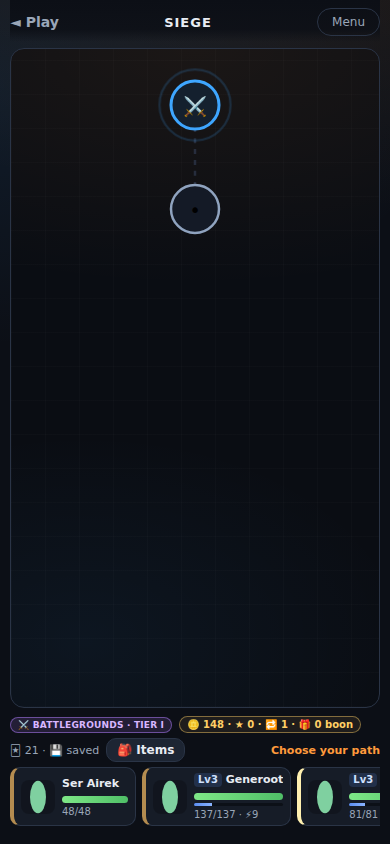
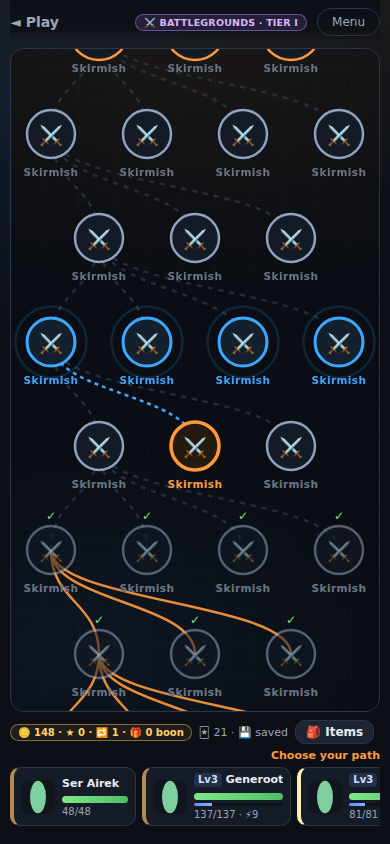
Move the expedition badge to the top bar and re-fit the map on rotation
The mode badge belongs with the run's identity, not its resources: it moves
into the top bar (map screen only), which leaves gold, deck count and Items
on one HUD line with the hint below.

Rotating stranded the map view. The flip handler only re-rendered when the
landscape axis actually changed, so a rotation on the same axis kept the old
scroll offset against new extents — dead space below the map, its top out of
reach — and a map shorter than its scroll box sat pinned to the top edge.
renderMap now keeps its focus scroll as a closure the handler can re-run, and
the scroll box centres a small map with auto margins.

Cache pins: adventure.css 63 -> 64, adventure.js 66 -> 67.

Claude-Session: https://claude.ai/code/session_011mQxEdrqqBDpVrAozhPkrc

diff --git a/src/main/resources/static/css/adventure.css b/src/main/resources/static/css/adventure.css
@@ -59,6 +59,11 @@ button{font-family:inherit;}
 .siege-back:hover{color:var(--text);}
 .siege-title{font-weight:800; letter-spacing:2px; font-size:18px;}
 .siege-title span{display:block; font-size:11px; letter-spacing:1px; color:var(--faint); font-weight:600;}
+/* The run's mode badge rides in the top bar, and only while the map is up —
+   every other screen either has no run yet or names itself in its own header.
+   Placed between the title and the Menu button so it never displaces either. */
+.siege-topbar #mapMode{margin-left:auto; margin-right:10px;}
+body:not([data-screen="mapScreen"]) .siege-topbar #mapMode{display:none;}
 .siege-abandon{background:transparent; border:1px solid var(--border); color:var(--dim); border-radius:20px; padding:6px 14px; cursor:pointer; font-size:12px;}
 .siege-abandon:hover{color:var(--bad); border-color:var(--bad);}
 
@@ -843,6 +848,7 @@ body[data-screen="rewardScreen"] .siege-screen{
 .map-bottom .map-meta{margin-bottom:0;}
 .map-scroll{
   position:relative; overflow:auto; flex:1 1 auto; min-height:280px;
+  display:flex;
   border:1px solid var(--border); border-radius:14px;
   background:
     radial-gradient(700px 340px at 50% 0%, rgba(255,154,60,.07), transparent 70%),
@@ -852,7 +858,11 @@ body[data-screen="rewardScreen"] .siege-screen{
     #0a0d13;
   -webkit-overflow-scrolling:touch;
 }
-#mapSvg{display:block; margin:0 auto;}
+/* Flex + auto margins centre the map on both axes when it is smaller than the
+   scroll box (rotating to a taller viewport used to leave it stuck at the top
+   with dead space below), while auto margins — unlike align-items:center —
+   never make the overflowing start edge unreachable. */
+#mapSvg{display:block; flex:0 0 auto; margin:auto;}
 .map-edge{fill:none; stroke:#2c3547; stroke-width:2.5; stroke-dasharray:5 6; opacity:.8;}
 .map-edge.walked{stroke:var(--accent); stroke-dasharray:none; opacity:.9;}
 .map-edge.open{stroke:var(--accent-2); stroke-dasharray:4 4; opacity:1; animation:edgeflow 1.2s linear infinite;}
@@ -2257,7 +2267,6 @@ body.siege-drag-active .sprite.drop-hover .sp-art{ filter:drop-shadow(0 0 18px r
      and clipping a lane node would make it unreachable; tuned lane spacing
      keeps the common 3-4 lane maps scroll-free. */
   .map-scroll{ min-height:0; overflow-x:auto; overflow-y:auto; }
-  #mapSvg{ margin:auto 0; }
   .map-bottom{ padding:4px 0 6px; }
   .map-reward{ margin-bottom:2px; font-size:11px; }
   .map-meta{ gap:8px; font-size:11px; margin-bottom:0; flex-wrap:wrap; }
@@ -2390,15 +2399,17 @@ body.siege-drag-active .sprite.drop-hover .sp-art{ filter:drop-shadow(0 0 18px r
      button off the right edge with no way to reach it. It wraps now, and the
      hint takes its own line so the buttons keep a full row to themselves. */
   .map-meta{flex-wrap:wrap; gap:5px 7px; font-size:11px;}
-  /* Wrapping alone was not enough: the mode badge and the gold chip are ~212px
-     and ~221px at their full size, so each claimed a line of its own and the
-     HUD grew four rows deep. Shrunk, they pair on one line and everything else
-     — deck/save count, Items, Extract, hint — lands on the next. */
-  .map-meta .run-slot-badge{
-    font-size:9px; padding:2px 7px; letter-spacing:.2px; max-width:52%;
-    overflow:hidden; text-overflow:ellipsis;
-  }
+  /* Wrapping alone was not enough: these chips run 90-220px at full size, so
+     each claimed a line of its own. Shrunk, gold pairs with the deck/save count
+     and the buttons and hint land on the next line. */
   .map-meta .gold-chip{font-size:10px; padding:2px 7px;}
+  /* The top bar carries the mode badge on this screen; a phone has no room for
+     it beside the two-line title, and the badge already names the run. */
+  body[data-screen="mapScreen"] .siege-title{display:none;}
+  .siege-topbar #mapMode{
+    font-size:9.5px; padding:2px 8px; letter-spacing:.2px;
+    max-width:60vw; overflow:hidden; text-overflow:ellipsis; margin-left:auto;
+  }
   /* Let the deck/save chip wrap as a unit — broken over two lines it doubled
      the row height for one line of text. */
   .map-meta #mapDeckCount{white-space:nowrap;}

diff --git a/src/main/resources/static/js/adventure.js b/src/main/resources/static/js/adventure.js
@@ -375,8 +375,11 @@
     if (mapOrientTimer) clearTimeout(mapOrientTimer);
     mapOrientTimer = setTimeout(function () {
       if (document.body.dataset.screen !== 'mapScreen') return;
-      if (isPhoneLandscape() === mapLayoutLand) return; // axis unchanged — nothing to redo
-      renderMap();
+      if (isPhoneLandscape() !== mapLayoutLand) { renderMap(); return; }
+      // Same axis, new viewport: the geometry still holds but the scroll extents
+      // do not, so re-centre on the current node instead of leaving the player
+      // parked past the end of the map.
+      if (mapFocusScroll) mapFocusScroll();
     }, 150);
   }
 
@@ -1612,6 +1615,9 @@
   // Remembers the axis the last renderMap() drew, so a rotation can detect the
   // flip and re-render (SVG geometry is baked at render time, not responsive).
   var mapLayoutLand = null;
+  // Re-scrolls the map to the run's current node using the geometry the last
+  // renderMap() baked. Set by renderMap; a no-op before the first map render.
+  var mapFocusScroll = null;
 
   function renderMap() {
     showScreen('mapScreen');
@@ -1752,18 +1758,24 @@
     });
 
     // Keep the action in view: scroll to the current position (or the start).
-    var scroll = $('mapScroll');
+    // Remembered as a closure rather than run once, because a rotation that does
+    // not flip the axis still changes the scroll extents — leaving the old
+    // offset stranded (blank space below the map, the top out of reach).
     var focus = nodes.find(function (n) { return n.current; });
-    setTimeout(function () {
-      if (land) {
+    var focusPt = focus ? pos(focus) : null;
+    mapFocusScroll = function () {
+      var scroll = $('mapScroll');
+      if (!scroll) return;
+      if (mapLayoutLand) {
         // Horizontal scroll: lead ~60% into the viewport; no current node → far left (start).
-        var focusX = focus ? pos(focus).x : 0;
-        scroll.scrollLeft = Math.max(0, focusX - scroll.clientWidth * 0.6);
+        scroll.scrollLeft = Math.max(0, (focusPt ? focusPt.x : 0) - scroll.clientWidth * 0.6);
+        scroll.scrollTop = 0;
       } else {
-        var focusY = focus ? pos(focus).y : height;
-        scroll.scrollTop = Math.max(0, focusY - scroll.clientHeight * 0.6);
+        scroll.scrollTop = Math.max(0, (focusPt ? focusPt.y : height) - scroll.clientHeight * 0.6);
+        scroll.scrollLeft = Math.max(0, (width - scroll.clientWidth) / 2);
       }
-    }, 30);
+    };
+    setTimeout(mapFocusScroll, 30);
 
     // Preload the next fight's map composition (orientation currently in effect)
     // so entering battle doesn't flash the fallback gradient.

diff --git a/src/main/resources/static/adventure.html b/src/main/resources/static/adventure.html
@@ -5,7 +5,7 @@
 <meta name="viewport" content="width=device-width, initial-scale=1, viewport-fit=cover">
 <title>Siege — Siegelings Adventure</title>
 <link rel="icon" href="/favicon.png">
-<link rel="stylesheet" href="/css/adventure.css?v=63">
+<link rel="stylesheet" href="/css/adventure.css?v=64">
 </head>
 <body>
 <!-- Enemy Siegelings are corrupted card art, so they need the same die-cut shade
@@ -51,6 +51,12 @@
   <header class="siege-topbar">
     <a class="siege-back" href="/play" title="Back to Play">◄ Play</a>
     <div class="siege-title">SIEGE <span>Adventure Expedition</span></div>
+    <!-- Which expedition this is belongs with the run's identity, not with its
+         resources: it lives in the top bar (shown on the map screen only) so the
+         HUD row below the map is left for gold, deck, Items and the hint.
+         renderMap() rewrites this element's className, so CSS targets it by
+         position and id, never by an extra class. -->
+    <span class="run-slot-badge siege" id="mapMode">🏳 Siege Expedition</span>
     <button class="siege-abandon hidden" id="runMenuBtn" type="button" aria-haspopup="dialog" aria-controls="runMenu" aria-expanded="false">Menu</button>
   </header>
 
@@ -149,9 +155,9 @@
     <div class="map-bottom">
       <div class="map-reward" id="mapReward"></div>
       <div class="map-meta">
-        <!-- Mode badge first, then the same chips in the same order in both modes:
-             the HUD reads identically for Siege and Battlegrounds. -->
-        <span class="run-slot-badge siege" id="mapMode">🏳 Siege Expedition</span>
+        <!-- Same chips in the same order in both modes so the HUD reads
+             identically for Siege and Battlegrounds; the mode badge itself sits
+             in the top bar. -->
         <span class="gold-chip" id="mapGold">🪙 0</span>
         <span id="mapDeckCount"></span>
         <button class="siege-btn map-inv-btn" id="inventoryBtn" type="button">🎒 Items</button>
@@ -614,6 +620,6 @@
   <div class="siege-toast hidden" id="siegeToast"></div>
 </div>
 <script src="/js/siege-maps.js?v=3"></script>
-<script src="/js/adventure.js?v=66"></script>
+<script src="/js/adventure.js?v=67"></script>
 </body>
 </html>

diff --git a/progress.md b/progress.md
@@ -1,3 +1,8 @@
+Original prompt: Yeah the expedition type can be displayed at the top instead of the bottom / When rotating the map portrait and landscape it sometimes adjust the view and leaves blank space on the bottom and you can't see the top it's also messy fix that
+
+- August 17, 2026 Two follow-ups on the Siege map HUD. (1) The expedition-type badge moved out of the resource row and into the top bar: `#mapMode` is now a sibling of `.siege-title` in `adventure.html`, shown only on the map screen (`body:not([data-screen="mapScreen"]) .siege-topbar #mapMode{display:none}`) and styled by id/position, since `renderMap()` rewrites its `className` each render. On phones the two-line `.siege-title` gives way on this screen — the badge already names the run — and the badge itself shrinks with an ellipsis at `60vw`. With the badge gone, gold + deck/save + Items now share one HUD line and the hint takes the second. (2) Rotation stranded the view: `onMapOrientationFlip` only re-rendered when the phone-landscape axis actually flipped, so a rotation on the same axis kept the old `scrollTop` against new scroll extents — blank space below the map with its top out of reach — and a map shorter than its scroll box sat pinned to the top edge with all the slack dumped underneath. `renderMap()` now stores its focus scroll as `mapFocusScroll` (a closure over the baked geometry) instead of running it once, the flip handler calls it whenever the axis is unchanged, and `.map-scroll` became `display:flex` with `#mapSvg{margin:auto}` so a small map centres on both axes — auto margins rather than `align-items:center` precisely because they never make an overflowing start edge unreachable. Cache pins: `adventure.css` 63 -> 64, `adventure.js` 66 -> 67.
+- Verification: `node --check` clean. `tests/siege-map-hud-portrait-check.cjs` extended — its fixture map is now 8 rows x 3-4 lanes so it overflows in both orientations (a short map hides this bug), it asserts the badge is inside `.siege-topbar`, not `.map-meta`, and visible above the map, and each viewport is driven through three rotations (portrait->landscape->portrait->taller portrait) asserting after every one that the current node is on screen, the Items button is still hittable, the page never scrolls horizontally, and any map smaller than its box is centred (top gap within 2px of the bottom gap) rather than leaving the reported dead space. All five viewports pass; e.g. 390x844 -> 844x390 lands `current=true` with gaps `T1/B-33`, back to 390x844 `scroll=16,75 current=true`, and desktop 1920x1080 centres at `T14/B14 L344/R344`. `siege-mode-saves-check.cjs` passes with the HUD order now `mapGold,mapDeckCount,inventoryBtn,extractBtn,mapHint` in both modes (its badge assertions read `#mapMode` by id and still hold), as do `siege-merc-at-stops-check.cjs`, `siege-merc-party-layout-check.cjs` and `siege-effect-timing-check.cjs`. `GameJavaScriptRegressionTest` + `AdventureLinePuzzleJavaScriptTest` green. Screenshots read back at 390x844 and 844x390.
+
 Original prompt: Map portrait hud is all messed up. These items should not be stacked and I can't access the inventory buttons the creature should be scrollable
 
 - August 17, 2026 Rebuilt the Siege map HUD on portrait phones after the wrap from the previous entry was rejected in play. Two defects, one screenshot: the party strip stacked the team into two rows of third-width chips that ate the HUD, and the resource row `.map-meta` was a single `nowrap` line — mode badge, gold chip, deck/save count, Items, Extract, hint — that overflowed a 370px row and pushed the **Items button off the right edge with no way to tap it**. Fixed in `adventure.css` only (no JS, no Java), inside the same `@media (max-width:640px) and (orientation:portrait)` block: the strip goes back to a single horizontally scrollable row (`flex-wrap:nowrap`, `overflow-x:auto`, `touch-action:pan-x`, hidden scrollbar) with chips at `min-width:126px`/`max-width:150px` so a third chip is half-visible at 390px and the cut edge advertises the swipe; the `Lv3` badge comes back (only the `ⓘ` glyph stays hidden, since tapping the chip opens the same modal); and `.map-meta` wraps, with the mode badge and gold chip shrunk (9px/10px, tighter padding, badge ellipsised at 52%) so they pair on one line instead of each claiming a row of its own — wrapping alone still left a four-row, 181px HUD. Cache pin: `adventure.css` 62 -> 63 on `adventure.html`.
